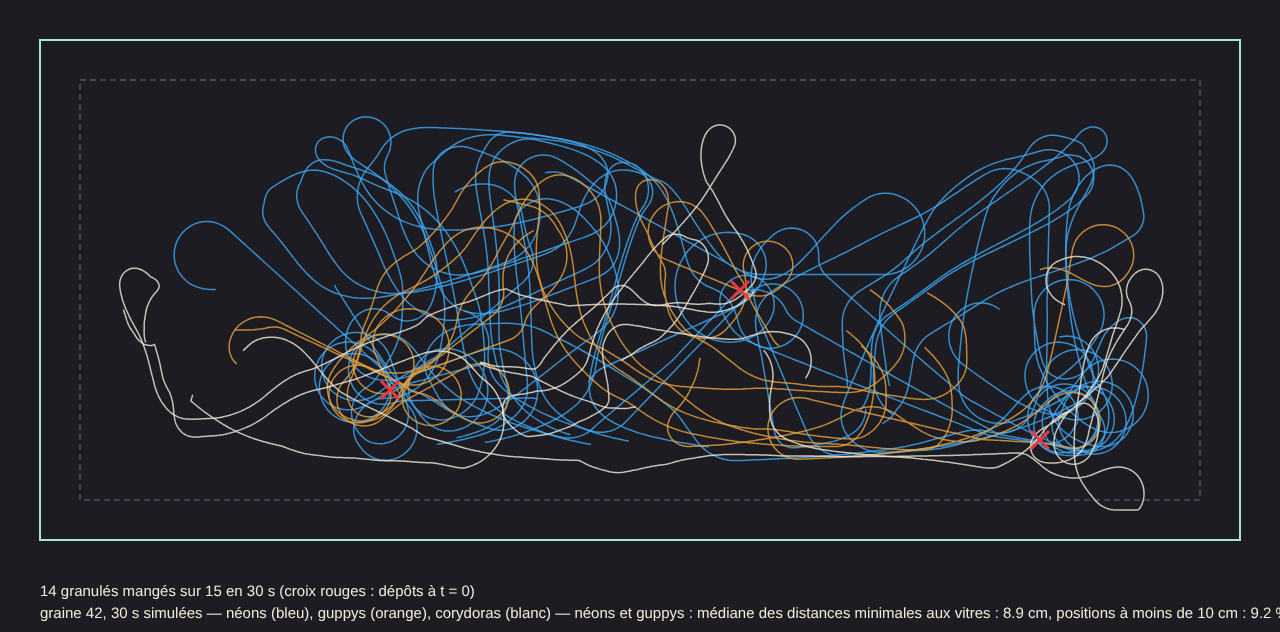
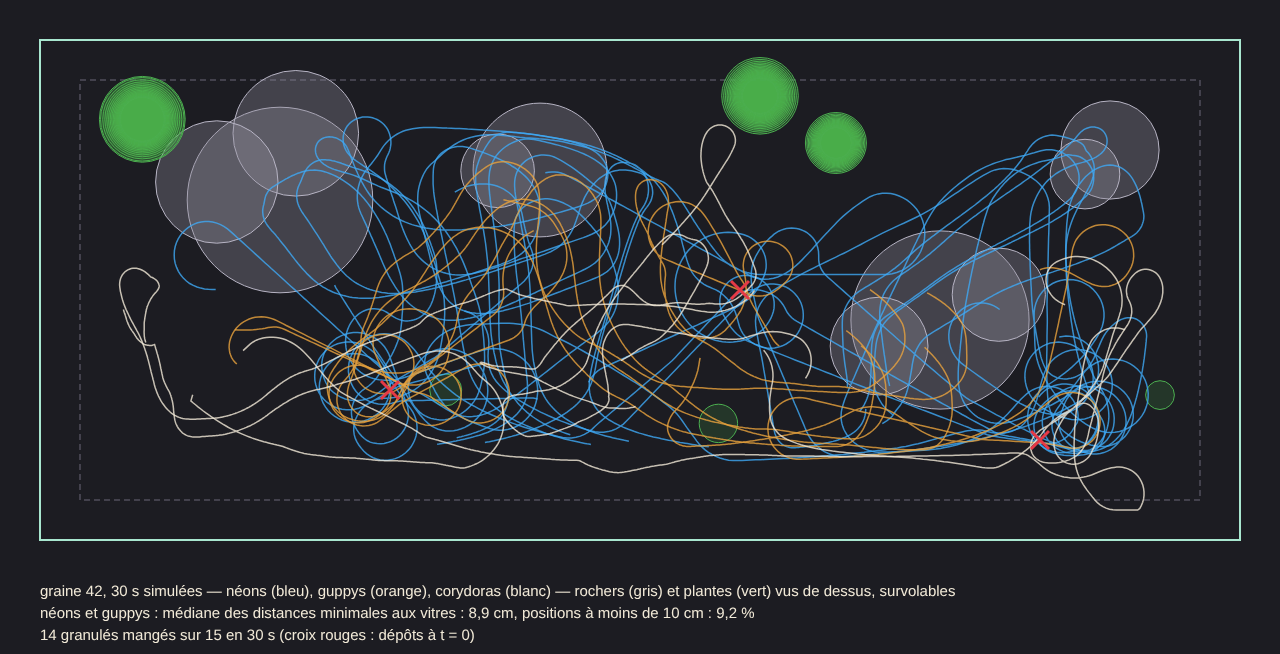
captures(c026): 5 angles

Changed region(s): [[0.0312, 0.0601, 0.9688, 0.8718], [0.0312, 0.9019, 1.0, 0.9921], [0.5625, 0.2405, 0.5938, 0.2706]]

diff --git a/captures/latest/SOURCE.md b/captures/latest/SOURCE.md
@@ -1,4 +1,5 @@
-# Captures c025
-- Branche : cycle/c025-faim-poissons, PR #84
-- Commit : 481d56d (code testé) ; test e2e QA ajouté en bfc61eb
-- Graine : 42 ; tracé 30 s ; angles et temps : voir e2e/captures.spec.ts
+# Captures c026
+- Branche : cycle/c026-cout-visibilite-legende, PR #86
+- Commit : ade4bf1 (code testé)
+- Graine : 42 ; tracés 60 s (sans nourriture) et 30 s (avec) ; angles : voir e2e/captures.spec.ts
+- Scènes : 12 captures identiques à l'octet à la série c025 ; seuls trajectoires-*.png changent (légende, rochers).

diff --git a/captures/c026/SOURCE.md b/captures/c026/SOURCE.md
@@ -1,0 +1,5 @@
+# Captures c026
+- Branche : cycle/c026-cout-visibilite-legende, PR #86
+- Commit : ade4bf1 (code testé)
+- Graine : 42 ; tracés 60 s (sans nourriture) et 30 s (avec) ; angles : voir e2e/captures.spec.ts
+- Scènes : 12 captures identiques à l'octet à la série c025 ; seuls trajectoires-*.png changent (légende, rochers).
